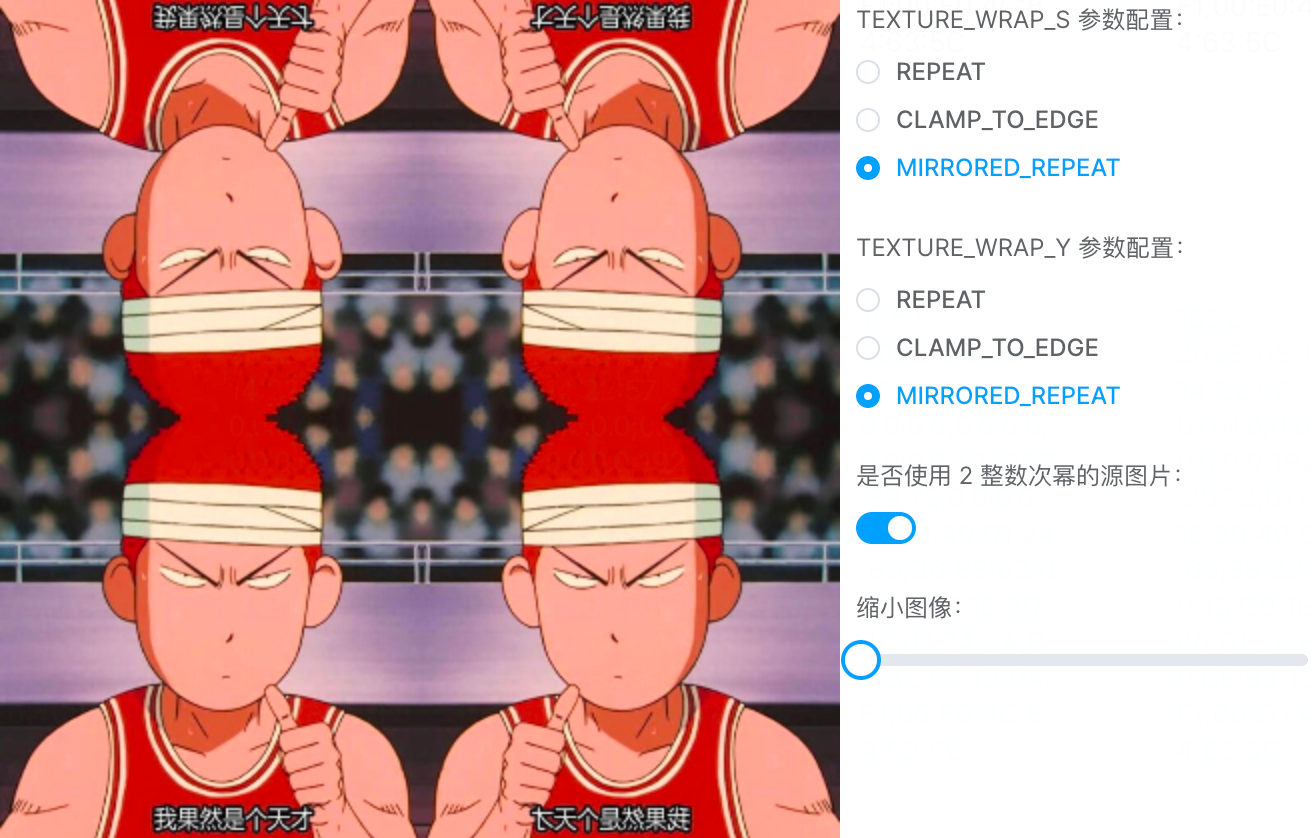
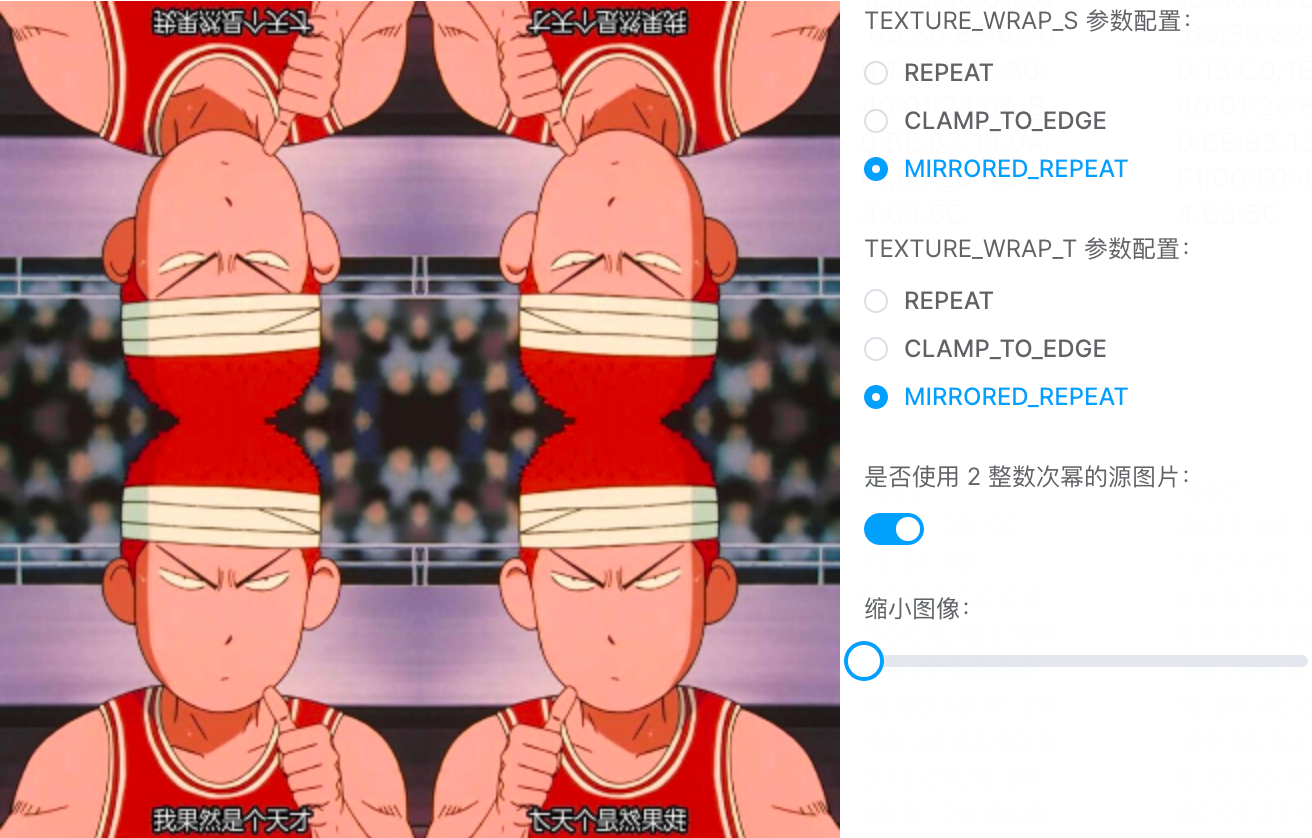
feat: WRAP 注意事项

diff --git a/src/demo/third/5_1.vue b/src/demo/third/5_1.vue
@@ -154,7 +154,7 @@ export default defineComponent({
   justify-content: space-between;
   align-items: flex-start;
   .options-group {
-    padding-left: 8px;
+    padding-left: 12px;
     flex: 1;
     box-sizing: border-box;
   }

diff --git a/src/demo/third/5_2.vue b/src/demo/third/5_2.vue
@@ -150,7 +150,7 @@ export default defineComponent({
   justify-content: space-between;
   align-items: flex-start;
   .options-group {
-    padding-left: 8px;
+    padding-left: 12px;
     flex: 1;
     box-sizing: border-box;
   }

diff --git a/src/demo/third/5_3.vue b/src/demo/third/5_3.vue
@@ -166,7 +166,7 @@ export default defineComponent({
   justify-content: space-between;
   align-items: flex-start;
   .options-group {
-    padding-left: 8px;
+    padding-left: 12px;
     flex: 1;
     box-sizing: border-box;
   }

diff --git a/src/demo/third/6_1.vue b/src/demo/third/6_1.vue
@@ -156,7 +156,7 @@ export default defineComponent({
   justify-content: space-between;
   align-items: flex-start;
   .options-group {
-    padding-left: 8px;
+    padding-left: 12px;
     flex: 1;
     box-sizing: border-box;
   }

diff --git a/docs/content/三、WebGL颜色和纹理/6. 深入纹理细节之WRAP.md b/docs/content/三、WebGL颜色和纹理/6. 深入纹理细节之WRAP.md
@@ -37,3 +37,26 @@ third/6_1
 ![6.2](../../public/images/third/6.2.png)
 
 此时出现了 4 个镜面对称的樱木～当然，如果我们把垂直方向（`T`）的填充设置成切割纹理边缘 `CLAMP_TO_EDGE` 那就回到了我们熟悉的头顶擎天柱的樱木了～好吧，其他效果大家自己操作示例程序体验一下吧，我就不一一演示、截图了。
+
+在本小节的最后，我们再过一遍示例程序中的核心配置代码：
+
+```js
+// FLTER 都设置成了 LINEAR（注意，如果不设置 TEXTURE_MIN_FILTER 就需要提供 MIPMAP）
+gl.texParameteri(gl.TEXTURE_2D, gl.TEXTURE_MIN_FILTER, gl.LINEAR)
+gl.texParameteri(gl.TEXTURE_2D, gl.TEXTURE_MAG_FILTER, gl.LINEAR)
+// WRAP 配置值都是动态根据表单空间的值来变化的
+gl.texParameteri(gl.TEXTURE_2D, gl.TEXTURE_WRAP_S, gl[wrapSType.value])
+gl.texParameteri(gl.TEXTURE_2D, gl.TEXTURE_WRAP_T, gl[wrapTType.value])
+```
+
+### 使用`REPEAT`模式的注意点
+
+相信大家也发现了，在上面的示例程序中我还保留了上一节中使用过的"是否使用 `2` 整数次幂的源图片"这个操作项，既然留下来了，那肯定是有意而为之。 如果已经有同学自己操作过并发现了异常（黑屏），那么恭喜你，你已经 get 到了我保留这个操作项的用意了。
+
+我们正常的切换示例程序中的各种参数来查看图像效果是没有问题的，但如果**关闭了"是否使用 `2` 整数次幂的源图片"这个开关**并且**将 `WRAP` 的配置参数切换到 `REPEAT` 模式**的时候，`canvas` 就黑了！大家可以返回上去操作一下：
+
+![6.4](../../public/images/third/6.4.png)
+
+如上图所示，只要我们**不用 `2` 整数次幂的源图片**，不管设置 `TEXTURE_WRAP_S` 还是 `TEXTURE_WRAP_T`，只要选择的参数配置跟 `REPEAT` （包括`MIRRORED_REPEAT`）相关显示都会出现异常（黑屏）。
+
+所以这一点跟我们上节所提到的 **`MIPMAP` 的注意事项的其中一点是一样的**，那就是**使用的源图片的尺寸需要是 `2` 的整数次幂**。宽高之间可以不相等，但是各自尺寸的值都得是 `1`、`2`、`4`、`8`、`16`、`32`...
